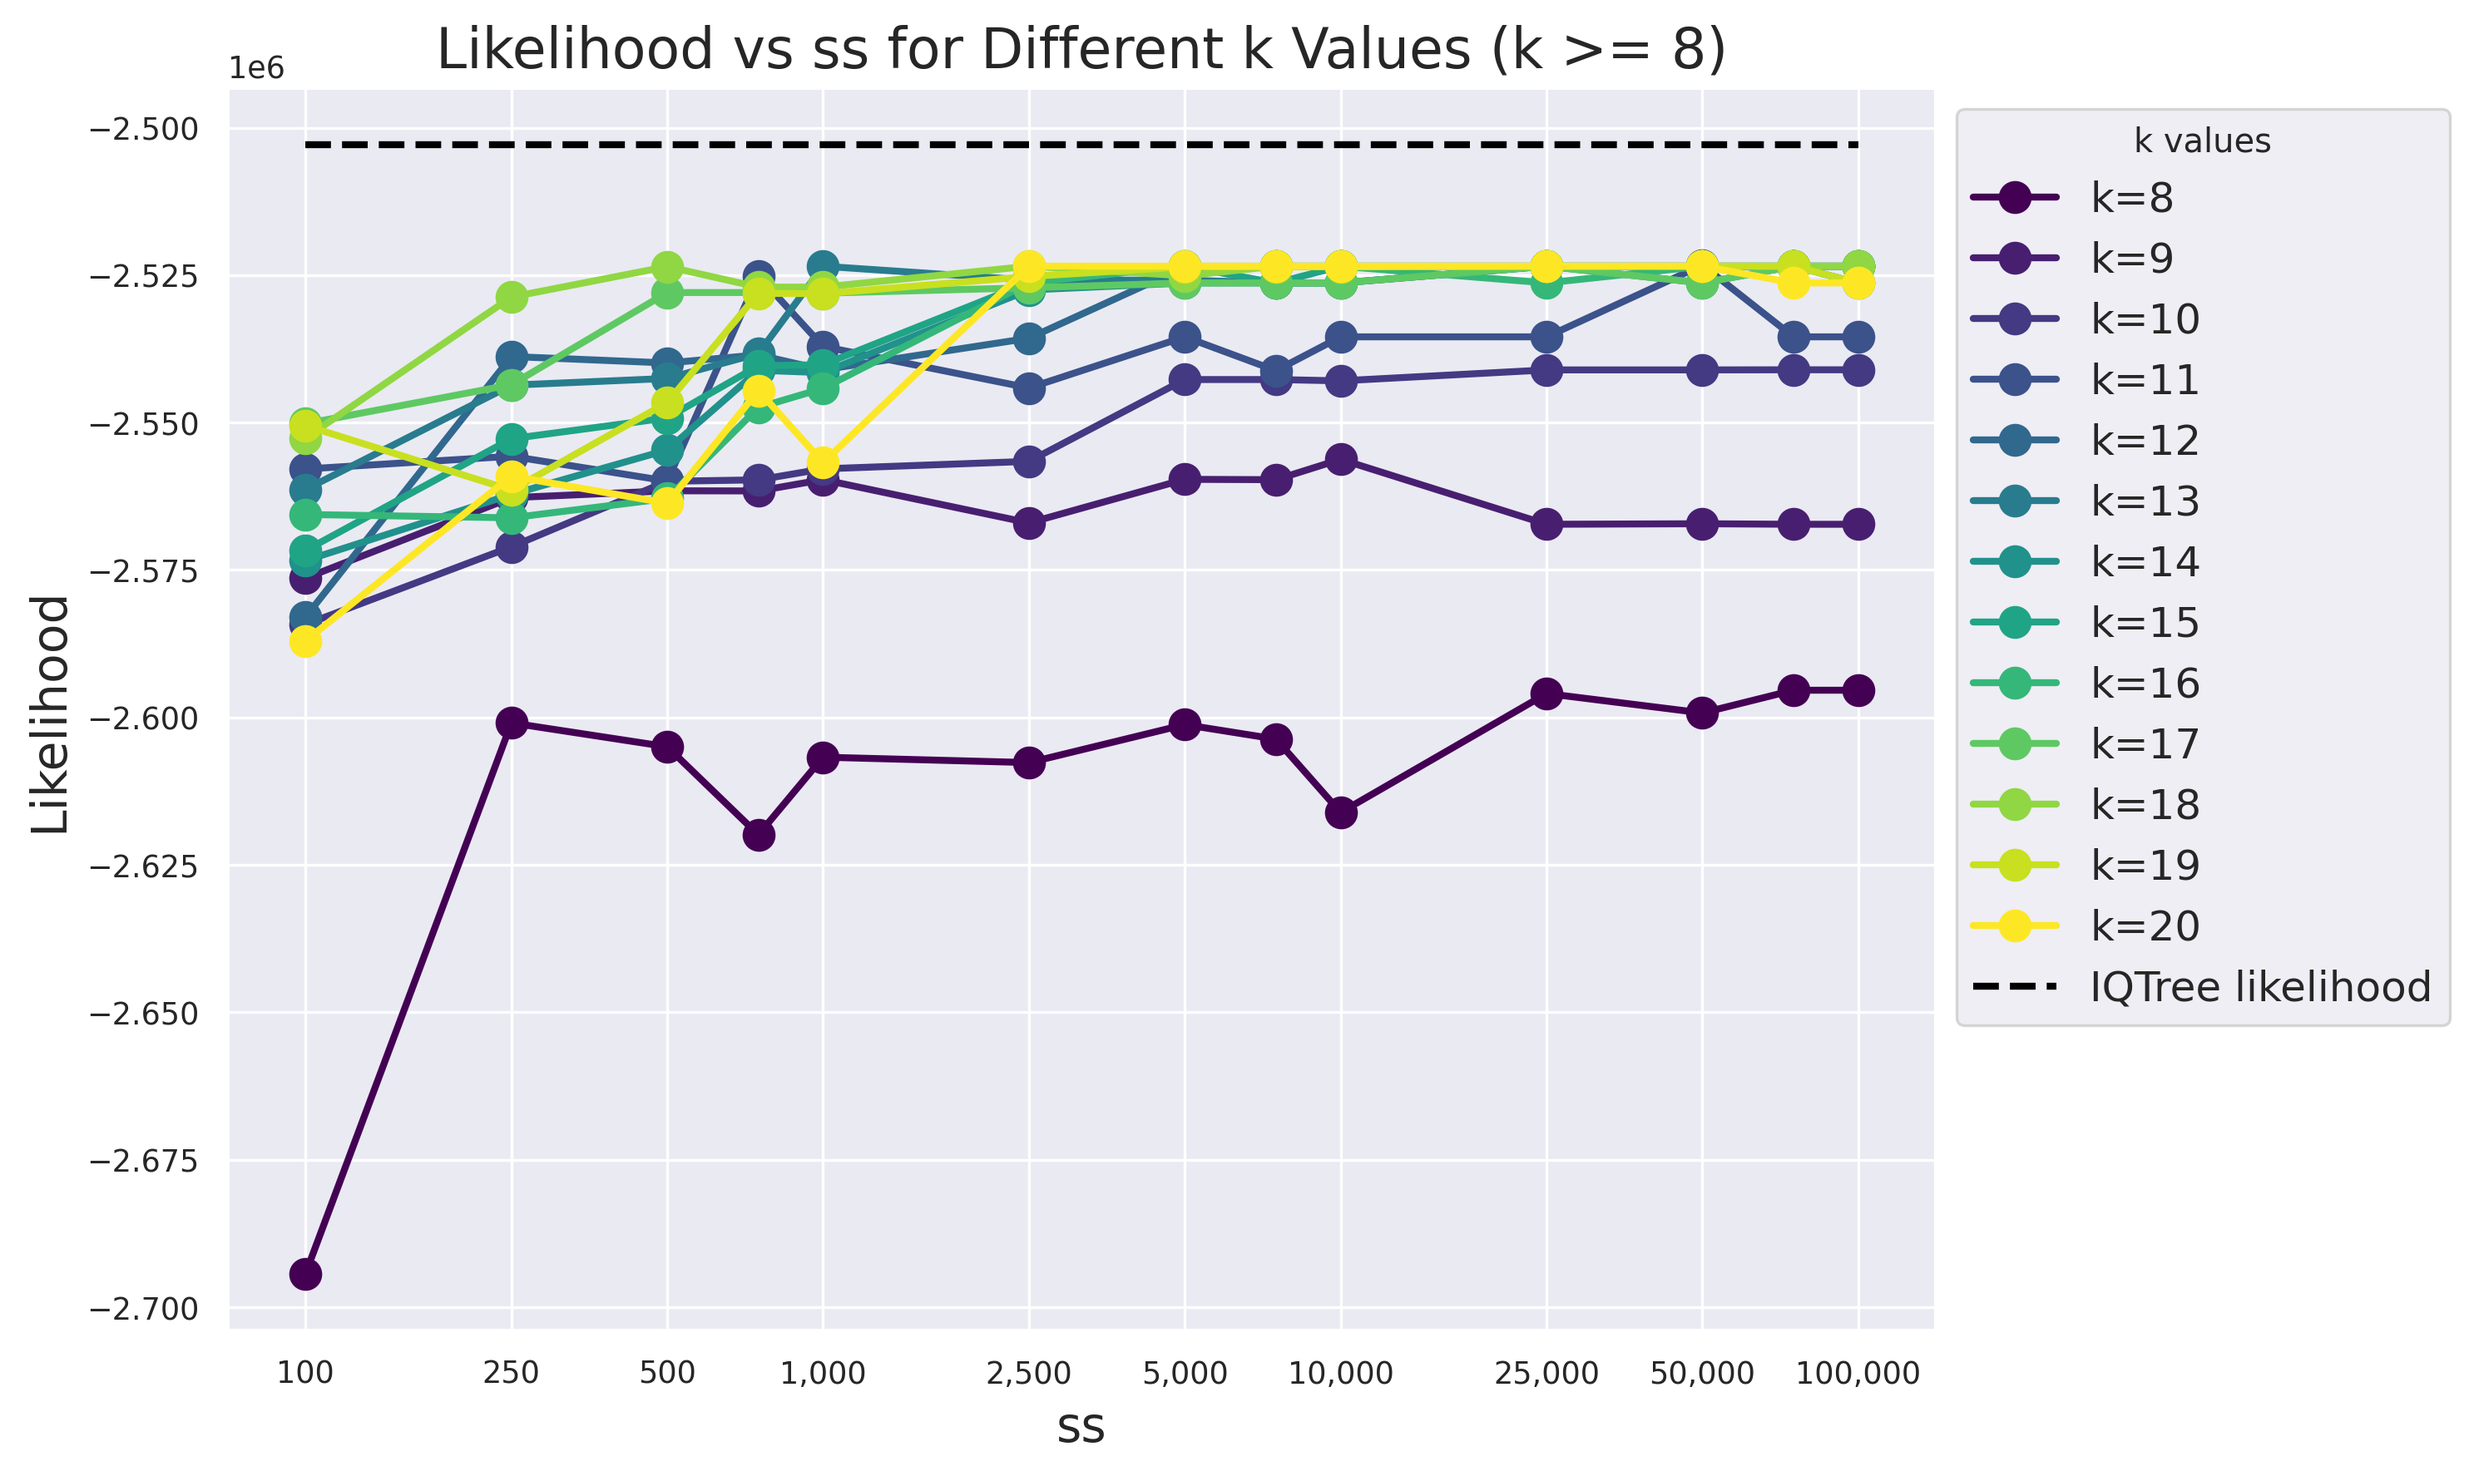
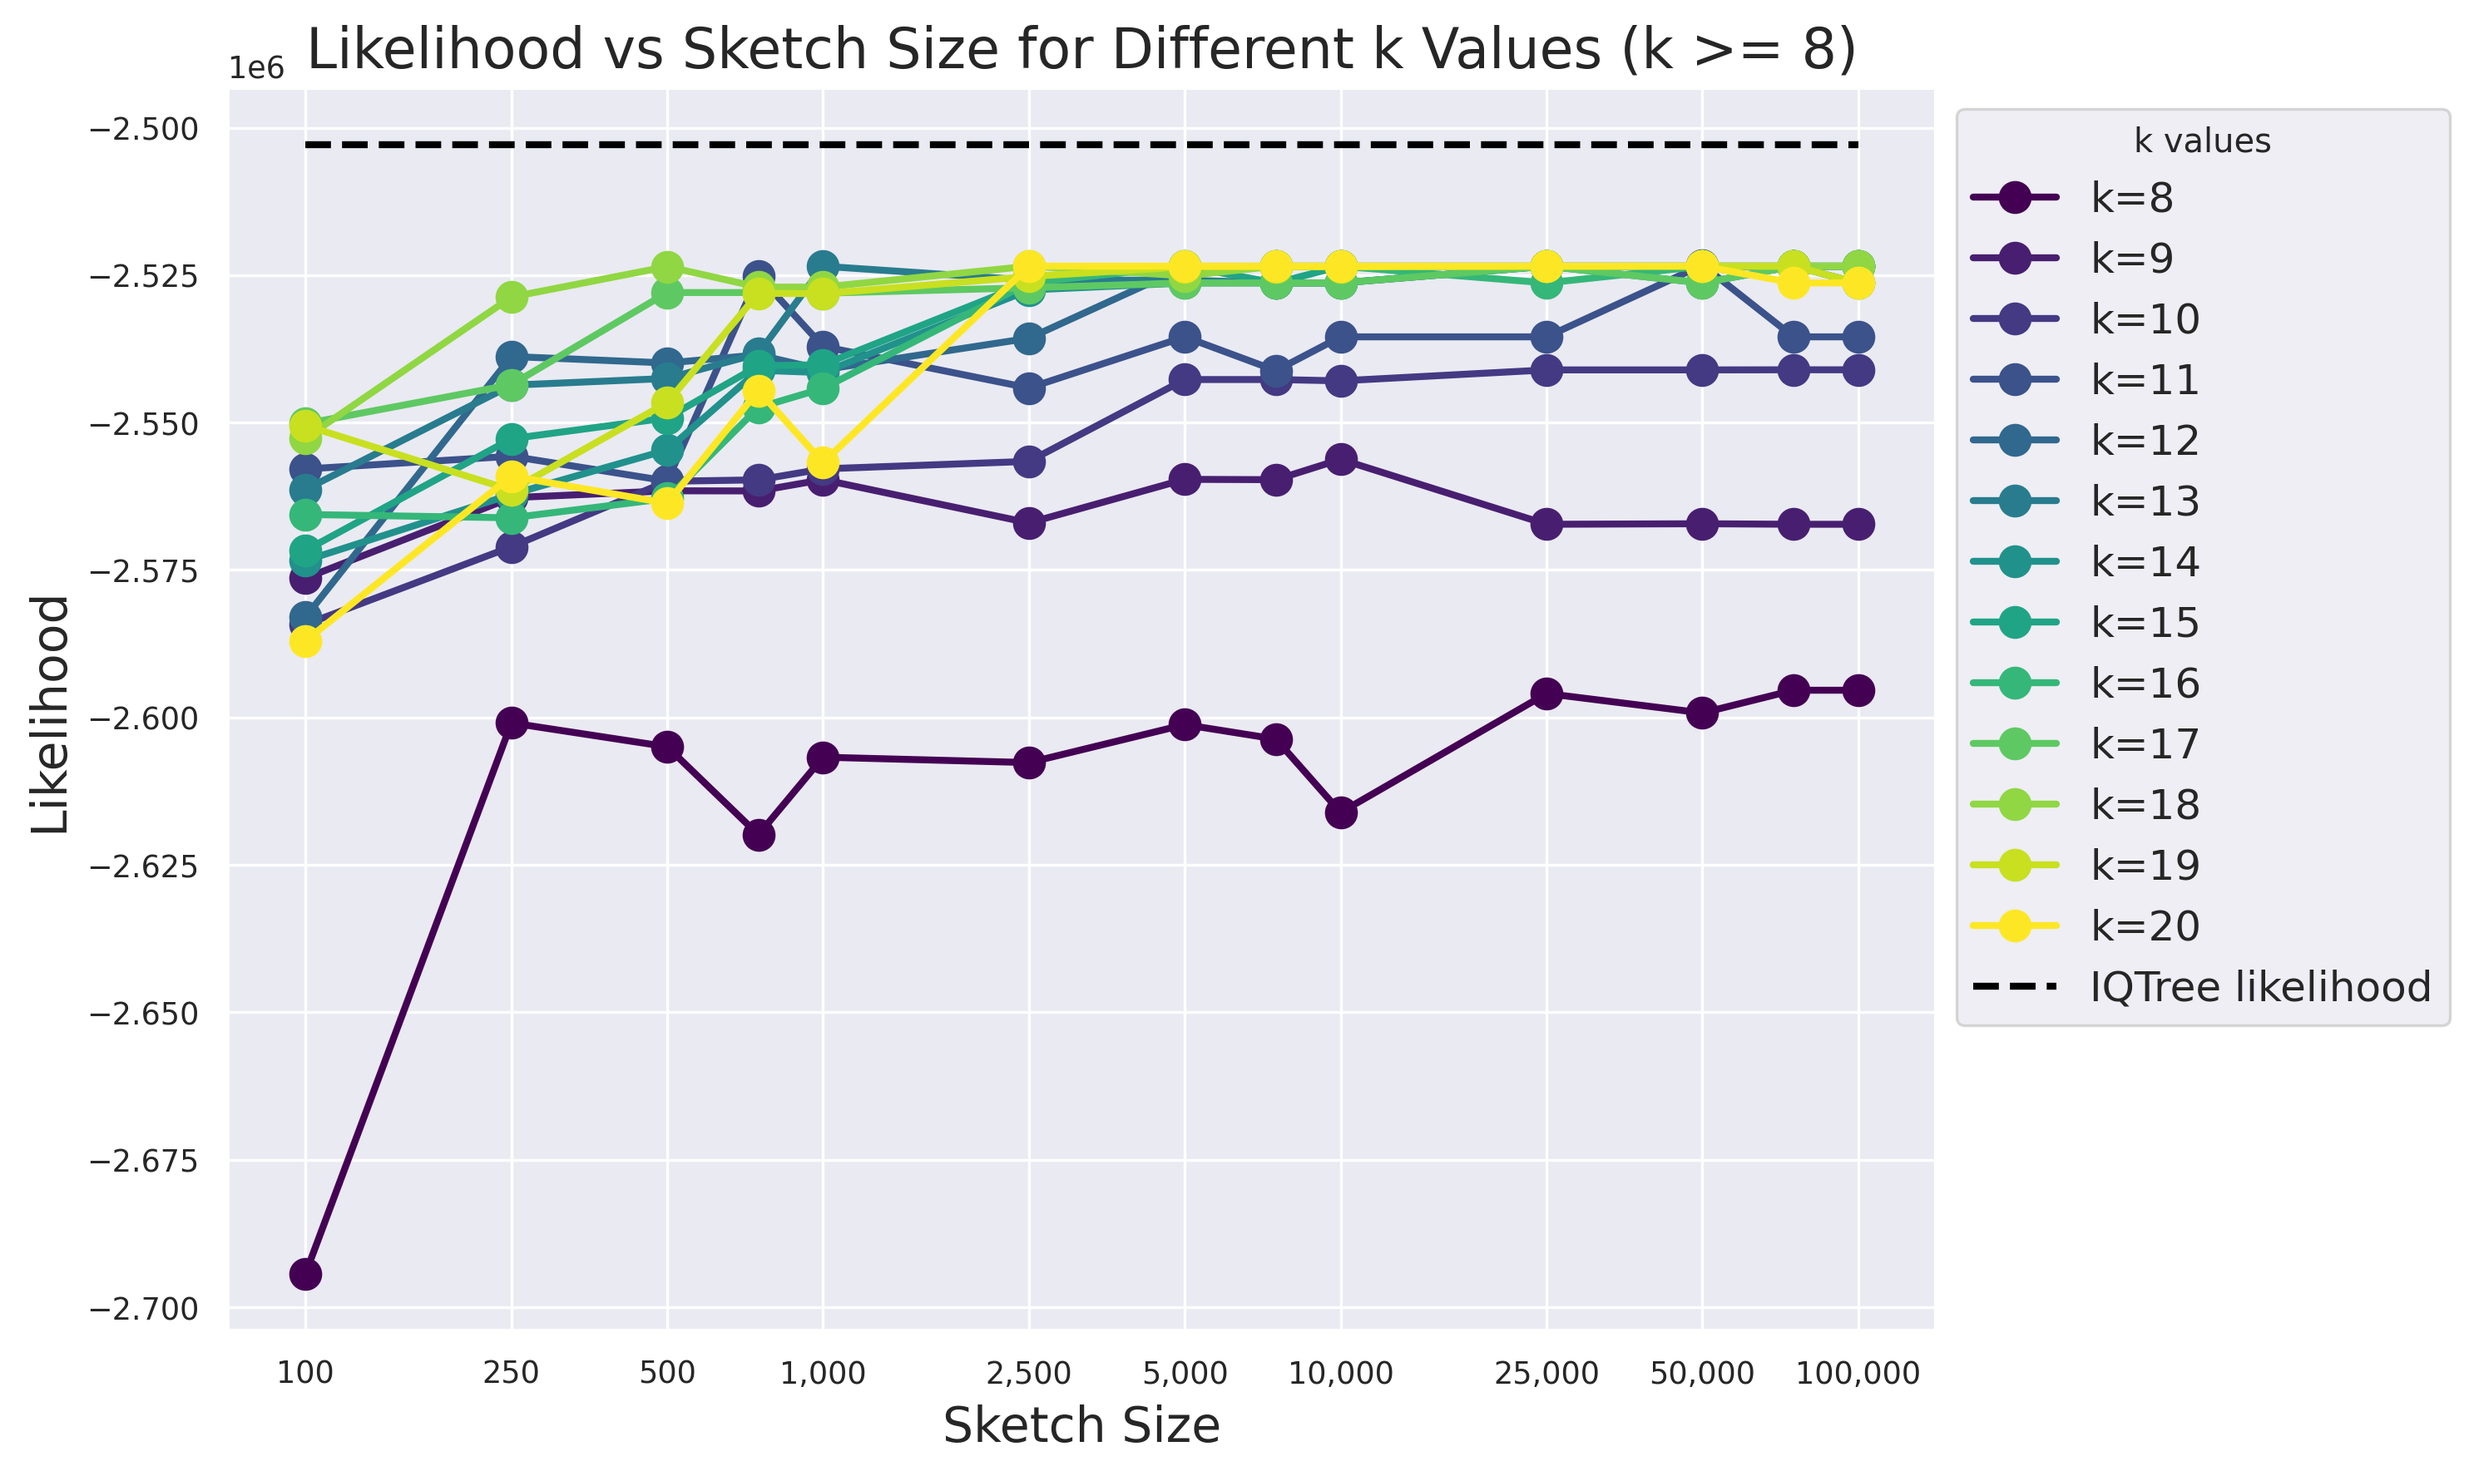
ENH: add `dvs ctree` section

Changed region(s): [[0.1237, 0.0, 0.7424, 0.062], [0.3712, 0.9606, 0.495, 0.9915]]

diff --git a/paper/nbks/ctree/graph.py b/paper/nbks/ctree/graph.py
@@ -85,10 +85,10 @@ def plot_likelihood_vs_ss(df, l_df, k_values, ss_values, colormap, min_k_value):
         label="IQTree likelihood",
     )
 
-    ax.set_xlabel("ss", fontsize=14)
+    ax.set_xlabel("Sketch Size", fontsize=14)
     ax.set_ylabel("Likelihood", fontsize=14)
     ax.set_title(
-        f"Likelihood vs ss for Different k Values (k >= {min_k_value})", fontsize=16
+        f"Likelihood vs Sketch Size for Different k Values (k >= {min_k_value})", fontsize=16
     )
 
     ax.set_xscale("log")

diff --git a/paper/paper.md b/paper/paper.md
@@ -15,8 +15,8 @@ authors:
   - name: Katherine Caley
     orcid: 0000-0002-8459-6168
     affiliation: 1
-  - name: Robert McArthur??
-    affiliation: 1
+  - name: Robert McArthur
+    affiliation: 0000-0001-9099-339X
 
 affiliations:
  - name: Research School of Biology, Australian National University, Australia
@@ -114,6 +114,38 @@ As shown in \autoref{fig:compute-time}, the compute time was linear with respect
 
 For large-scale analyses, we recommend use of the `nmost` command line tool. The choice of $k$ should be guided by the maximum number of unique $k$-mers in a DNA sequence of length $L$, indicated as the result of the expression $log(L/4)$. For instance, $k\approx 12$ for bacterial genomes (which are of the order $10^6$bp). For individual protein coding genes, as \autoref{fig:jsd-v-dist} indicates, $k=6$ for `nmost` gives a reasonable accuracy. 
 
+<!---
+I've placed the work for ctree here for it to be woven in later
+-->
+
+# Constructing trees from $k$-mers
+
+The $k$-mer approach can also be extended to enable quick estimations of phylogenetic trees from unaligned sequences. 
+
+The mash distance [@ondov.2016.mash] is an unbiased estimate of the mutation rate between two sequences that can
+be computed in near linear time for large genome size. It estimates the mutation rate from an approximation of the
+Jaccard index between the $k$-mer sets of the two sequences (the percentage of shared $k$-mers). The approximation
+is calculated from only a random subset of all $k$-mers in the two sequences. The size of the subset is called
+the *sketch size* and contains the smallest $k$-mers when sorted by a hash function.
+
+We use agglomerative clustering with average linkage [@murtagh.2012.algorithms] based on pairwise mash distances 
+to estimate phylogenetic trees from unaligned sequences. This is available in the command line as `dvs ctree`. 
+The resulting tree depends on the $k$-mer size and the sketch size. We use the mammals dataset to evaluate the
+statistical performance of the method. All sequences were concatenated and phylogenetic trees were estimated 
+from this alignment with different $k$-mer sizes and sketch sizes. The trees generated by `dvs ctree` are compared
+to the maximum likelihood tree found by IQ-TREE [@minh.2020.iq] using a general time-reversible model 
+[@tavare.1986.some] on the concatenated alignment.
+
+\autoref{fig:ctree-k} shows how the likelihood of the generated trees changes as $k$ increases for varying sketch
+sizes. When $k \leq 5$, the $k$-mers are non-unique (all mash-distances are zero) and the method generates a
+caterpillar tree. For larger $k$-mer sizes the trees are more interesting though it is not until $k=8$ when the
+caterpillar tree is outperformed. As $k$ increases further, the likelihood approaches that of IQ-TREE but plateaus 
+before it at $k=12$. \autoref{fig:ctree-ss} shows how the likelihood of the generated trees changes as the sketch
+size increases for varying $k \geq 8$. The likelihood trends upwards as the sketch size increases (that is the 
+mash distance estimate improves), approaching but not reaching the optimal maximum likelihood found by IQ-TREE. 
+For sufficiently large $k$, the performance of the method plateaus beyond a sketch size of about 2,500. The optimal
+maximum likelihood achieved by `dvs ctree` is impressive considering that the method does not require an alignment.
+
 # TODO's
 
 - [ ] upload the big data sets to Zenodo
@@ -132,6 +164,10 @@ For large-scale analyses, we recommend use of the `nmost` command line tool. The
 ![Result of applying the `dvs_max` app to a single sequence alignment. The phylogenetic tree was estimated using Neighbour-Joining [@saitou.1987.mol.biol.evol] from the pairwise paralinear distances [@lake.1994.procnatlacadsciua]. See the `plugin_demo` notebook for the code used to produce this figure.](figs/selected_edges.png){#fig:selected-edges}
 
 ![`dvs max` exhibits linear time performance with respect to the number of microbial genome sequences. Three replicates were performed for each condition. For each repeat, sequences were randomly sampled without replacement from the 960 REFSOIL microbial data set [@choi.2017.ismej].](figs/compute_time.png){#fig:compute-time}
+
+![Statistical performance of the `dvs_ctree` app on the concatenated mammals alignment as the $k$-mer size increases. The likelihood of trees generated by the app is compared to the maximum likelihood tree found by IQ-TREE [@minh.2020.iq]. For large enough sketch sizes, the likelihood approaches that of IQ-TREE and plateaus beyond a $k$-mer size of ~12.](figs/likelihood_vs_k_for_ss.png){#fig:ctree-k}
+
+![Statistical performance of the `dvs_ctree` app on the concatenated mammals alignment as the sketch size increases. The likelihood of trees generated by the app is compared to the maximum likelihood tree found by IQ-TREE [@minh.2020.iq]. For large enough $k$-mer sizes, the likelihood approaches that of IQ-TREE and plateaus beyond a sketch size of ~2500.](figs/likelihood_vs_ss_for_k.png){#fig:ctree-ss}
 
 # Tables
 
